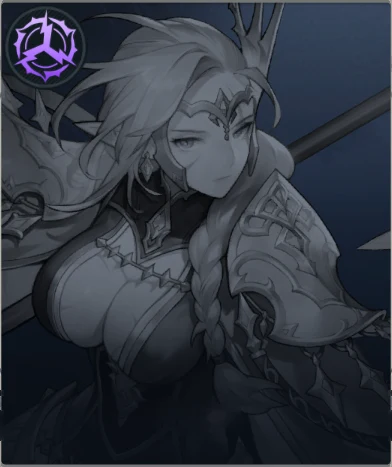
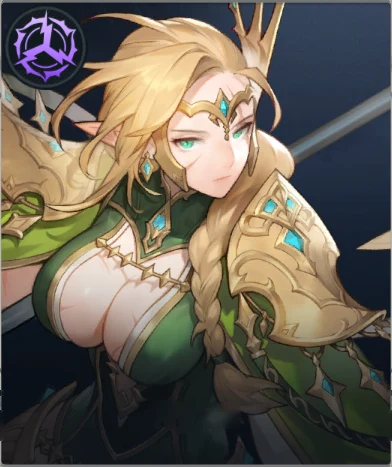
Chapter 6 batch: Ghoul Greed, Hunt rating rewards, Eroded Underground Cemetery, Ryza, runes, Raw Mana Stone Gold, skill buff levels
Claude-Session: https://claude.ai/code/session_01EEUGEyjkEXG6uzpCmHTwFz

diff --git a/index.html b/index.html
@@ -1801,7 +1801,8 @@ function v2TowersHtml(){const T=TOWER_TRIALS;const L=T.towers||[];const w=v2Towe
  <h5>Stars collected in this tower</h5><div class="v2-tgrid">${cm.map(c=>`<span><small>★${c[0]}</small>${item(c[1],c[2])}</span>`).join('')}</div>
  <p>Per tower: ${item('memory',(sum(fr)+cumMem).toLocaleString('en-GB'))} ${profileEsc(I.memory?.name||'')} (${sum(fr).toLocaleString('en-GB')} from floors, ${cumMem} from stars) and ${item('whirling',cumWh)} ${profileEsc(I.whirling?.name||'')}.</p><p class="v2-tnote">${profileEsc(I.whirling?.use||'')}</p>`;
  return `<div class="v2-bosses">${tabs}</div><details class="v2-panel" open><summary>How the ${profileEsc(w.name||'tower')} works</summary><div>${how}</div></details><details class="v2-panel"><summary>Floors and stars</summary><div>${floors}</div></details><details class="v2-panel"><summary>Rewards</summary><div>${rewards}</div></details>`;}
-function v2BossInfo(b){const I=b&&b.info;if(!I)return '';const E=profileEsc;
+function v2HuntRanks(b){const H=(typeof TIER_LIST_V2!=='undefined'&&TIER_LIST_V2.huntRatingRewards)||null;if(!b||b.type!=='Hunt'||!H)return '';const E=profileEsc;return `<details class="v2-panel v2-binfo"><summary>Rating rewards (every Hunt boss, every difficulty)</summary><div><table class="gx-tbl">${(H.ranks||[]).map(r=>`<tr><td style="font-weight:900;font-size:18px;width:40px">${E(r.rank)}</td><td>${Number(r.points).toLocaleString('en-GB')} pts</td><td><span class="gx-mat"><img src="${E(r.icon)}" alt="">${r.amount}× ${E(r.item)}</span></td></tr>`).join('')}</table><p class="v2-tnote">${E(H.note||'')}</p></div></details>`;}
+function v2BossInfo(b){const I=b&&b.info;if(!I)return v2HuntRanks(b);const E=profileEsc;
  const fights=`<p>${E(I.intro||'')}</p><div class="v2-fights">${(I.fights||[]).map((f,i)=>`<div><b>${i+1}. ${E(f.name)}</b>${E(f.text||'')}</div>`).join('')}</div>${I.fightsNote?`<p><b>${E(I.fightsNote)}</b></p>`:''}`;
  const rew=(I.difficulties||[]).map(x=>`<h5>${E(x.name)} · recommended Lv.${x.level}</h5><ul>${x.rewards.map(r=>`<li>${E(r)}</li>`).join('')}</ul>`).join('')+(I.rewardsNote?`<p class="v2-tnote">${E(I.rewardsNote)}</p>`:'');
  const strat=(I.strategy||[]).length?`<ul>${I.strategy.map(t=>`<li>${E(t)}</li>`).join('')}</ul>`:'<p class="v2-tnote">Signature moves and tips will be added once recorded.</p>';

diff --git a/AGENTS.md b/AGENTS.md
@@ -81,6 +81,7 @@ David's decision (29 Oct 2026): new work stays hidden as a surprise until launch
 | `RUNES` | `{note, types[{name, line, color, stat, gameStat?, icon}], grades[{name, color, raid}], seen{grade: {type: [values]}}, rules[], image}` | Runes box on the Gear page, preview only (`renderGearPreview()`). `seen` holds only values David has read in-game; add to it as he finds more. |
 | `DUNGEONS` | `{note, difficulties[{name, roman, color}], farmGroups[], rewardItems, currencyRewardItems, normal[], currency[], currencyNote, undiscovered{currency}}` | Preview-only Normal and Currency Dungeon pages. Normal entries carry three difficulty reward lists as `[itemKey, amount]` pairs; `rewardItems` resolves labels/icons. Currency entries use the same pair structure and `currencyRewardItems`. Normal set icons resolve through `GEAR_DATA`; keep names and amounts in data rather than HTML. |
 | `LEVEL_COSTS` | `{note, pickRule, items{hero, karma, gear: [{name, exp, gold}]}, exp{hero, karma: {from, toNext[]}}, expNote, breakthroughs{hero, karma: {level: {gold, materials}}}, unknown[]}` | Not rendered yet (the Gear calculator uses the gear item Gold via `GEAR_UPGRADE.expMaterials[].gold`). Measured in Test Kit test 05 on 3 Nov 2026: Gold is paid per EXP item used, not per level (52 of 52 steps match). Ready for a Hero/Karma levelling calculator once EXP above level 20 is measured; `null` Gold = not measured yet. |
+| `SKILL_BUFF_LEVELS` | `{note, skills[{hero, skill, effect, values[10]}]}` | Not used by the page yet. Buff values per skill level from Test Kit test 02; all follow +5% (or +10%) of Lv.1 per level with a double step at Lv.10. |
 | `HERO_BASE_STATS` | `{hero: {Attack, Defense, Max HP, Critical Hit Chance, Critical Damage, estimated, profile}}` | Level-70 hero stats with no gear or Karma. **Currently estimates** (`estimated: true`). Replace with measured values and set `estimated` to `false`. |
 | `HERO_STAT_MODEL` | measurements + formula | Documents how the estimates were made (see "Hero base-stat estimates" below). Not read by the page except as reference. |
 | `HERO_BUILDS` | `{hero: {type, why, rarity, level, pieces: {slot: {main, subs[5]}}}}` | Best Main Stats cards and the Recommended Endgame Stats totals on character pages. Stat names must match `GEAR_STATS` exactly. |
@@ -94,7 +95,7 @@ David's decision (29 Oct 2026): new work stays hidden as a surprise until launch
 | `FAMILIARS` | `{note, passiveNote, passiveNotes{group: text}, empty, groups[], owned{group: count}, currencies{key: {name, icon}}, list[{name, group, image, owned, obtain{type: dlc/currency/task/promotion/quest/default, label, price?, url?, currency?, amount?, count?}, effects[]}], passives{group: [{count, text, scope: species/all/none}]}, abilities{name: {species, icon, description, cooldown}}}` | Familiars tab (`renderFamiliars()`), grouped like the Codex with Dragon last (the only single-familiar species). Each species has a passive-effect box: steps 1–4 unlock as you collect more of that species (green badge = unlocked in David's game, from `owned`). `scope: species` steps get a "<Species> only" tag; `[Ability]` names in the text become chips that open the ability pop-up (icon, description, cooldown). Passives come from David's `assets/familiars/abilities/ability_list.txt`; abilities were read from his screenshots by OCR. `obtain` comes from David's `assets/familiars/where_to_aquire.txt` (in Codex order) and is shown under each name: DLC links to the Steam page, Gold and Adventurer's Emblem use the in-game icons (`assets/ui/gold.webp`, `adventurers-emblem.webp`, cut out of David's screenshots), and task counts are the in-game requirement. |
 | `TRAIT_DUNGEONS` | `{note, weaknessTest, empty, difficulties, difficultyLevels[{n, roman, name, level, color, rewards[[item, amount]]}], rewardItems{exp, emblem, green, blue, purple: {name, icon}}, bosses[{id, name, family, archetype, weak[archetypes], immune[archetypes], image, note?}]}` | Trait Dungeons tab (`renderTrait()`): one card per boss, with a banner (name in the middle, weakness top-right with a green ▲, immunity bottom-right with a red ▼, rewards bottom-left), then "Strong here" (heroes of the weak archetype) and "Immune · leave at home" (heroes of the immune archetype), ranked by the End-game tier. From David (29 Oct 2026): weaknesses and immunities don't change with difficulty. Mantius and Drosophia are weak to their own archetype, except Drosophia of Bloodburst (the game says "None"). Ghagaroach is immune to its own archetype and weak to the next in the loop Blazeflame → Frostbite → Thunderbolt → Venom → Blazeflame. Each banner has a I–IV difficulty selector (top-left) that switches the recommended level and the reward icons; levels and amounts are the same for every boss (from David's Mantius of Amplitude screens), only the trait stone icon follows the boss's archetype (`assets/trait/icons/<archetype>-<green|blue|purple>.webp`, `{key}`/`{arch}` placeholders in `rewardItems`). Banners are `assets/trait/<family>-<archetype>.webp`, cropped from David's Extreme screens (the source PNGs were deleted after cutting, still in git history). Archetype names must match `ARCHES`. |
 | `UI_ICONS` | `{note, titles, heroes, teams, familiars, trait}` | Menu icons (`navIcon()`), drawn as CSS masks so they take the menu text colour; a missing entry keeps the text symbol. Files live in `assets/ui/`: white `*.webp` cut out of David's in-game PNGs, `*-gold.webp` gold versions, spare `exchange`, `guides`, `help`. `mode-overall.webp` / `mode-bosses.webp` are the tier-list mode backgrounds (game badge strip cropped off). Boss pictures are `assets/bosses/<id>.webp` (full) and `<id>-banner.webp` (wide crop for the boss tabs); David's original PNGs are deleted after cutting (31 Oct 2026, at his request; still in git history). |
-| `TIER_LIST_V2` | `{note, status, tiers[], tierColors{}, roles[], modes{overall, bosses: {label, sub, image, intro}}, bosses[{id, name, level, type, image, image2?, weak[], immune[], stage?, theme?, info?}], undiscovered{type: count}, about[], ratings[{tier, text}], tags{key: {label, color, desc}}, signatureKarmaText, heroes{name: {overall{tier, groups, single}, bosses{all, <bossId>}, tags[], needs[[status…]], expert{drop, reason}, awk?, signatureKarma?, progression{early?, late?}}}}` | The **new tier list, hidden while in preview**: it only renders with `?tiers=new` in the URL (`initTierV2()`, `renderTierV2()`). Modes: Overall (hover shows Groups and Single target), Bosses (All bosses + one tab per boss; hover lists every boss, '?' when unrated; a boss tab falls back to the All-bosses tier, shown faded) and Towers (one tab per Tower of Trials, see `TOWER_TRIALS`; falls back to the Overall tier, shown faded). Role columns from `roles`. A boss with `image2` cross-fades its tab to that picture and back once a minute (Gauron's dragon form); the fade is timed from the clock (negative `animation-delay`), so re-rendering doesn't restart it. A boss with `theme: "raid"` gets the pulsing red glow and red outlined name on its tab; a boss with `info{intro, fights[{name,text}], fightsNote, difficulties[{name, level, rewards[]}], rewardsNote, strategy[]}` gets The fights, Strategy and Rewards panels under the tabs (`v2BossInfo()`); only Gauron has one so far. Tag icons are `V2_ICONS` in `index.html`; labels, colours and descriptions are here. `counter` is added automatically when the selected boss's `weak` list has the hero's archetype, or the selected tower is the hero's archetype. `heroes` holds only ratings David and Claude have agreed (8 heroes David owns, 29 Oct 2026; the rest show as Unrated until he plays them): **never fill it by formula**. The full reasoning per hero is in David's `TODO_David_2026-10-29.txt`. The old tier list (`HEROES[].tiers`) stays as the public view and the "Legacy view" until launch. |
+| `TIER_LIST_V2` | `{note, status, tiers[], tierColors{}, roles[], modes{overall, bosses: {label, sub, image, intro}}, bosses[{id, name, level, type, image, image2?, weak[], immune[], stage?, theme?, info?}], undiscovered{type: count}, about[], ratings[{tier, text}], tags{key: {label, color, desc}}, signatureKarmaText, heroes{name: {overall{tier, groups, single}, bosses{all, <bossId>}, tags[], needs[[status…]], expert{drop, reason}, awk?, signatureKarma?, progression{early?, late?}}}}` | The **new tier list, hidden while in preview**: it only renders with `?tiers=new` in the URL (`initTierV2()`, `renderTierV2()`). Modes: Overall (hover shows Groups and Single target), Bosses (All bosses + one tab per boss; hover lists every boss, '?' when unrated; a boss tab falls back to the All-bosses tier, shown faded) and Towers (one tab per Tower of Trials, see `TOWER_TRIALS`; falls back to the Overall tier, shown faded). Role columns from `roles`. A boss with `image2` cross-fades its tab to that picture and back once a minute (Gauron's dragon form); the fade is timed from the clock (negative `animation-delay`), so re-rendering doesn't restart it. A boss with `theme: "raid"` gets the pulsing red glow and red outlined name on its tab; a boss with `info{intro, fights[{name,text}], fightsNote, difficulties[{name, level, rewards[]}], rewardsNote, strategy[]}` gets The fights, Strategy and Rewards panels under the tabs (`v2BossInfo()`); only Gauron has one so far. Hunt bosses without `info` show the shared Rating rewards panel from `TIER_LIST_V2.huntRatingRewards` (`v2HuntRanks()`). Tag icons are `V2_ICONS` in `index.html`; labels, colours and descriptions are here. `counter` is added automatically when the selected boss's `weak` list has the hero's archetype, or the selected tower is the hero's archetype. `heroes` holds only ratings David and Claude have agreed (8 heroes David owns, 29 Oct 2026; the rest show as Unrated until he plays them): **never fill it by formula**. The full reasoning per hero is in David's `TODO_David_2026-10-29.txt`. The old tier list (`HEROES[].tiers`) stays as the public view and the "Legacy view" until launch. |
 | `TOWER_TRIALS` | `{note, unlock, floors, starsPerFloor, conditions[], conditionsNote, enemyLevels, entry, bonus{own, dot, other, text, example, dotTested[]}, items{memory, whirling: {name, icon, use?}}, floorRewards[30], cumulative[[stars, item, amount]], towers[{id, name, archetype, status, measured, pos, crest, text?}], image}` | The Towers mode of the new tier list (preview only; `v2TowersHtml()`, `v2Tower()`): one tab per tower (background = `assets/ui/mode-towers.webp`, the entrance hall, shifted by `pos` to that tower's door, with the tower's crest `assets/ui/crest-<id>.webp` cut from David's deploy-screen Recommendations icons), then How it works, Floors and stars, and Rewards panels. Measured 31 Oct 2026 (`DAMAGE_TESTS`): each tower adds +400% to the Additional Damage pool for hits on enemies with its own status, +100% for damage-over-time statuses, nothing for others. Crushing isn't measured (`measured: false`). Hero ratings go in `TIER_LIST_V2.heroes[name].towers{<towerId>}`; unrated heroes show their Overall tier faded, and Counter is added for the tower's archetype. Sources in `assets/tower/`. |
 | `COOKBOOK` | `{note, total, methods{name: {total, color}}, effects{name: {color, icon}}, starRule, intro, ingredients[{name, category, stars, icon}], dishes[{id, name, method, effect, scope, duration, text, tiers{stars: value}, slots[], fixed, best[], bestStars, image}]}` | Cookbook tab (preview only; `renderCookbook()`, `cbDetail()`): progress bars per method, filters, a card per recipe (undiscovered ones are generated from `methods[].total` minus the dishes listed), a detail panel with the effect per star (only values read in-game; unseen stars say so; rows below the minimum possible for the slot count are left out) and the ingredient slots, a viewer's own 'Mark as cooked' ticks (browser storage `dsw.cooked.v1`), and the star calculator. `text` uses `{v}` for the tier value. `slots` are categories, or exact ingredients when `fixed` (no swap icon in the game). Dish pictures `assets/cooking/<id>.webp` cut from David's Cookbook video; nav icon `assets/ui/cooking.webp`. Sources: `assets/items/cookbook.json`. |
 | `AWAKENINGS` | `{note, ratingScale[6], icon, heroes: {hero: {best, list[{level, name, text, effects[{stat, value}], rating, why}]}}}` | Review tab on character pages (`renderProfileAwakenings()`). `text` is copied word for word from the screenshots in `assets/awakenings/<Hero>/A1–A6.png`, with `\n` for line breaks. `effects` are the always-on stat bonuses, using the `GEAR_STATS` stat names. They count in the end-game totals, where they're shown in purple, and in the build optimiser. `rating` runs 0–5: 0 = not needed, 5 = game-changing. Stat awakenings on damage heroes are rated by modelled end-game damage gain (15%+ = 4, 8–15% = 3, 3–8% = 2, 1–3% = 1; method in `AWAKENINGS.note`). `why` is shown under each card. `best` is the awakening shown in the Best Awakening card. |

diff --git a/CHANGELOG.md b/CHANGELOG.md
@@ -2,6 +2,15 @@
 
 David requested always checking for newer commits and deployments, and applying this chat's work on top of them. Added the rule to AGENTS.md, including preserving other assistants' changes, checking again before pushing, and verifying the remote result. Fetched origin/main: b4f9bfe was current. GitHub deployment API returned Forbidden, so deployment status could not be independently verified. Documentation only; no application or data changes.
 
+
+## 4 Nov 2026 — David's Chapter 6 batch (Claude)
+- New Hunt boss tab Ghoul Greed (Lv.45, preview tier list); the second Hunt slot stays undiscovered. Hunt bosses now show a Rating rewards panel (S 36,000 pts: 1 Stigma Awaken Stone; A–D: 50/25/15/10 Fragment of Sacred Light), from `TIER_LIST_V2.huntRatingRewards`.
+- Necklace Soaked in Greed added to `assets/items/materials.json` with its icon.
+- New Currency Dungeon Eroded Underground Cemetery (Gold), with description and rewards for I/II/III; banner art to come. One Currency Dungeon left undiscovered.
+- Ryza owned (colour portrait); `profileFaction: The Six Heroes` (Codex group stays Other). Knightage Griffon owned (Griffon 2/4). Titles 21/109 (Elite Mercenary Crew, +190 Max HP).
+- Runes seen: Damaged Protection 15 and 20, Intact Focus 1.80%.
+- Raw Mana Stone costs 5,000 Gold per use (gear calculator updated). New `SKILL_BUFF_LEVELS` with the 8 buff rows from Test Kit test 02 (Kalsion's Weapon Blaze added).
+- Gear rows: all % main stats match; Purple Defense and Blue Attack read ~1–2% above the estimate (noted in `GEAR_STATS.valueSources.flatLowerRarityNote`, tables unchanged).
 ## 3 Nov 2026 — Restore original index.html line endings
 
 Restored LF line endings without changing page content, and added an explicit preservation rule to AGENTS.md. Applied on top of the latest main changes. Verified identical content after newline normalisation and ran the data validator. User requested committing and applying the fix to GitHub.
